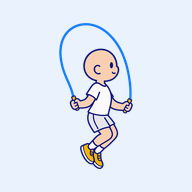
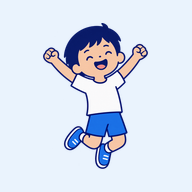
fix: 화면에 남아 있던 민머리 그림 교체
결과·측정 화면이 1차 자세 그림을 쓰고 있었는데 머리카락이 없어 민머리
인형처럼 보였다. 요인 그림을 몸 부위 쪽으로 바꿨다 — 사람을 그리지 않아
그 문제가 없고 어디를 쓰는 운동인지 더 곧장 말해 준다.

로그인과 스플래시, 앱 아이콘의 원본도 머리가 그려진 그림으로 바꿨다.

Changed region(s): [[0.2188, 0.0938, 0.7812, 0.9062]]

diff --git a/src/lib/fitness-items.ts b/src/lib/fitness-items.ts
@@ -2,42 +2,50 @@ import type { FitnessFactor, FitnessItem } from "./api/types";
 
 /** 측정 항목에 관한 화면 쪽 정보. */
 
-/** 항목 코드 → 자세 그림. 없는 항목은 요인 그림으로 대체한다 */
+/** 항목 코드 → 그림. 없는 항목은 요인 그림으로 대체한다 */
 const POSE_BY_CODE: Record<string, string> = {
-  "009": "move/move-situp", // 윗몸말아올리기
-  "010": "move/move-jump-rope", // 반복점프
-  "012": "move/move-sit-and-reach", // 앉아윗몸앞으로굽히기
-  "013": "move/move-shuttle-run", // 일리노이
-  "014": "move/move-long-jump", // 체공시간
-  "017": "move/move-plank", // 눈-손협응력
-  "019": "move/move-situp", // 교차윗몸일으키기
-  "020": "move/move-shuttle-run", // 왕복오래달리기
-  "021": "move/move-shuttle-run", // 10m4회왕복달리기
-  "022": "move/move-long-jump", // 제자리멀리뛰기
-  "028": "move/move-grip", // 상대악력
-  "035": "move/move-walk",
-  "037": "move/move-walk",
-  "040": "move/move-squat", // 반응시간
-  "041": "move/move-long-jump", // 성인체공시간
-  "043": "move/move-jump-rope", // 반복옆뛰기
-  "050": "move/move-shuttle-run", // 5m4회왕복달리기
-  "051": "move/move-plank", // 3x3버튼누르기
+  "009": "item/part-core", // 윗몸말아올리기
+  "010": "item/item-shoes", // 반복점프
+  "012": "item/part-leg", // 앉아윗몸앞으로굽히기
+  "013": "item/item-cone", // 일리노이
+  "014": "item/item-stopwatch", // 체공시간
+  "017": "item/item-stopwatch", // 눈-손협응력
+  "019": "item/part-core", // 교차윗몸일으키기
+  "020": "item/part-heart", // 왕복오래달리기
+  "021": "item/item-cone", // 10m4회왕복달리기
+  "022": "item/item-tape", // 제자리멀리뛰기
+  "028": "item/item-grip", // 상대악력
+  "035": "item/item-shoes",
+  "037": "item/item-shoes",
+  "040": "item/item-stopwatch", // 반응시간
+  "041": "item/item-stopwatch", // 성인체공시간
+  "043": "item/item-shoes", // 반복옆뛰기
+  "050": "item/item-cone", // 5m4회왕복달리기
+  "051": "item/item-stopwatch", // 3x3버튼누르기
 };
 
+/*
+  요인 그림.
+
+  자세 그림(`move/*`)을 쓰다가 **몸 부위 그림**으로 바꿨다. 1차로 받은 자세 그림은
+  머리카락이 없어서 화면에서 민머리 인형처럼 보인다(다시 뽑기로 했다 —
+  ASSET_PROMPTS.md 맨 앞). 부위 그림은 사람을 그리지 않아 그 문제가 없고,
+  "어디를 쓰는 운동인가" 를 더 곧장 말해 준다.
+*/
 const POSE_BY_FACTOR: Record<string, string> = {
-  심폐지구력: "move/move-shuttle-run",
-  근력: "move/move-grip",
-  근지구력: "move/move-situp",
-  유연성: "move/move-stretch-leg",
-  민첩성: "move/move-jump-rope",
-  순발력: "move/move-long-jump",
-  협응력: "move/move-plank",
-  평형성: "move/move-single-leg",
+  심폐지구력: "item/part-heart",
+  근력: "item/part-arm",
+  근지구력: "item/part-core",
+  유연성: "item/part-leg",
+  민첩성: "item/item-cone",
+  순발력: "item/item-target",
+  협응력: "item/item-stopwatch",
+  평형성: "item/part-leg",
 };
 
 export function itemPose(item: Pick<FitnessItem, "itemCode" | "factor">): string {
   return (
-    POSE_BY_CODE[item.itemCode ?? ""] ?? POSE_BY_FACTOR[item.factor ?? ""] ?? "move/move-situp"
+    POSE_BY_CODE[item.itemCode ?? ""] ?? POSE_BY_FACTOR[item.factor ?? ""] ?? "item/item-target"
   );
 }
 
@@ -62,5 +70,5 @@ export function equipmentArt(itemCode: string | undefined): string | undefined {
 
 /** 요인 → 그림. 레이더 · 결과 화면에서 쓴다 */
 export function factorPose(factor: FitnessFactor | string | undefined): string {
-  return POSE_BY_FACTOR[factor ?? ""] ?? "move/move-situp";
+  return POSE_BY_FACTOR[factor ?? ""] ?? "item/item-target";
 }

diff --git a/src/app/kid/pick/page.tsx b/src/app/kid/pick/page.tsx
@@ -1,5 +1,6 @@
 "use client";
 
+import Image from "next/image";
 import { useState } from "react";
 
 import { NavLink } from "@/components/ui/nav-link";
@@ -22,6 +23,9 @@ import { cn } from "@/lib/utils";
  *
  * 전에는 서버가 준 순서대로 늘어놓기만 했다. 이제 **라벨로 거른다** —
  * 어느 요인을 키우고 싶은지 고르면 그 영상만 남는다.
+ *
+ * 카드에는 썸네일을 쓴다. 캐릭터를 쓰면 같은 요인의 영상끼리 그림이 똑같아
+ * 어느 게 어느 것인지 구분이 안 된다.
  */
 
 /** 영상이 어떤 요인을 다루는지에 따라 캐릭터 동작을 고른다 */
@@ -81,7 +85,7 @@ export default function PickPage() {
     <>
       <AppBar backHref="/kid" title="운동 고르기" />
       <Stage wide className="relative space-y-4">
-        <Backdrop name="bg/bg-park" height={190} />
+        <Backdrop name="bg/bg-park" height={150} />
         <h2 className="text-[1.5rem] leading-tight font-extrabold">뭐 하고 싶어?</h2>
 
         {factors.length > 1 && (
@@ -130,7 +134,23 @@ export default function PickPage() {
                       done ? "border-done bg-done-soft" : "border-line",
                     )}
                   >
-                    <KidCharacter motion={motionFor(labelFactors(video.label), index)} size={84} />
+                    {video.thumbnailUrl ? (
+                      <span className="relative block w-24 shrink-0 self-start overflow-hidden rounded-xl">
+                        <Image
+                          src={video.thumbnailUrl}
+                          alt=""
+                          width={160}
+                          height={90}
+                          className="aspect-video w-full object-cover"
+                          unoptimized
+                        />
+                      </span>
+                    ) : (
+                      <KidCharacter
+                        motion={motionFor(labelFactors(video.label), index)}
+                        size={72}
+                      />
+                    )}
                     <span className="min-w-0 flex-1">
                       <span className="text-lead line-clamp-2 leading-snug font-extrabold">
                         {video.title}

diff --git a/src/app/login/page.tsx b/src/app/login/page.tsx
@@ -74,7 +74,7 @@ function LoginContent() {
   return (
     <PlainScreen className="flex min-h-dvh flex-col justify-center gap-8">
       <div className="flex flex-col items-center text-center">
-        <Illustration name="move/move-jump-rope" size={150} />
+        <Illustration name="anim/pose-cheer" size={150} />
         <h1 className="page-title mt-4">우리가족 체력키움</h1>
         <p className="text-ink-soft mt-2 text-sm leading-relaxed">
           국민체력100 측정 기록으로 가족이 함께할 한 주를 짜 드려요.

diff --git a/src/app/page.tsx b/src/app/page.tsx
@@ -48,7 +48,7 @@ export default function SplashPage() {
 
   return (
     <div className="flex min-h-dvh flex-col items-center justify-center gap-4">
-      <Illustration name="move/move-jump-rope" size={140} priority />
+      <Illustration name="anim/pose-cheer" size={140} priority />
       <p className="page-title text-center">우리가족 체력키움</p>
       <p className="text-ink-soft text-sm">국민체력100 공개데이터로 만든 가족 체력 서비스</p>
     </div>
